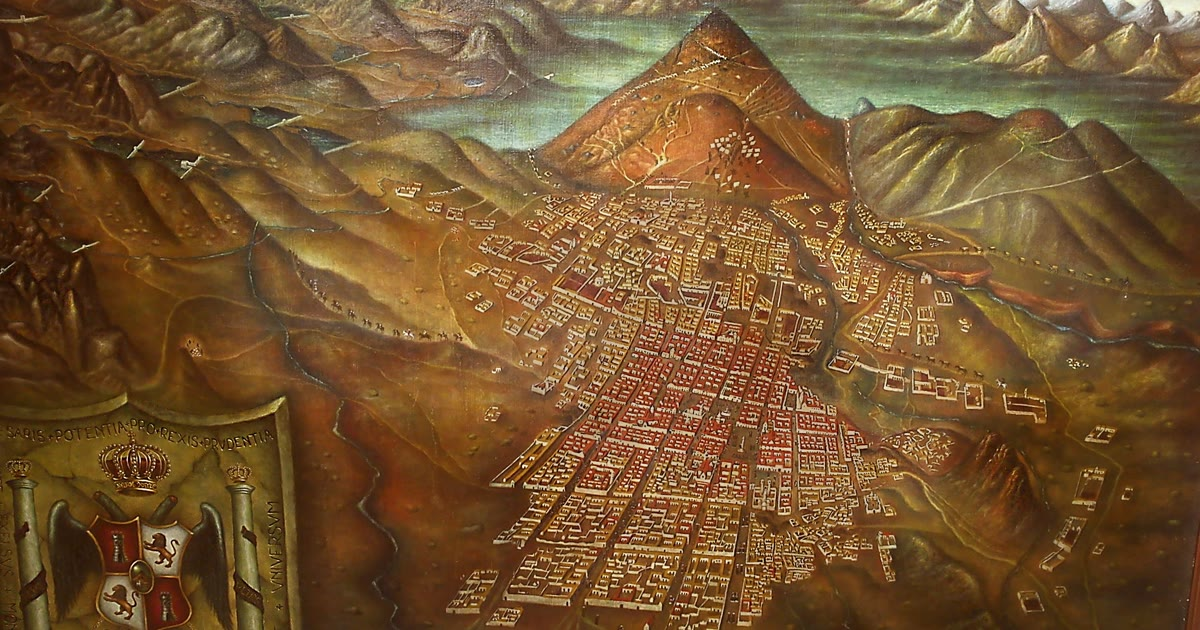
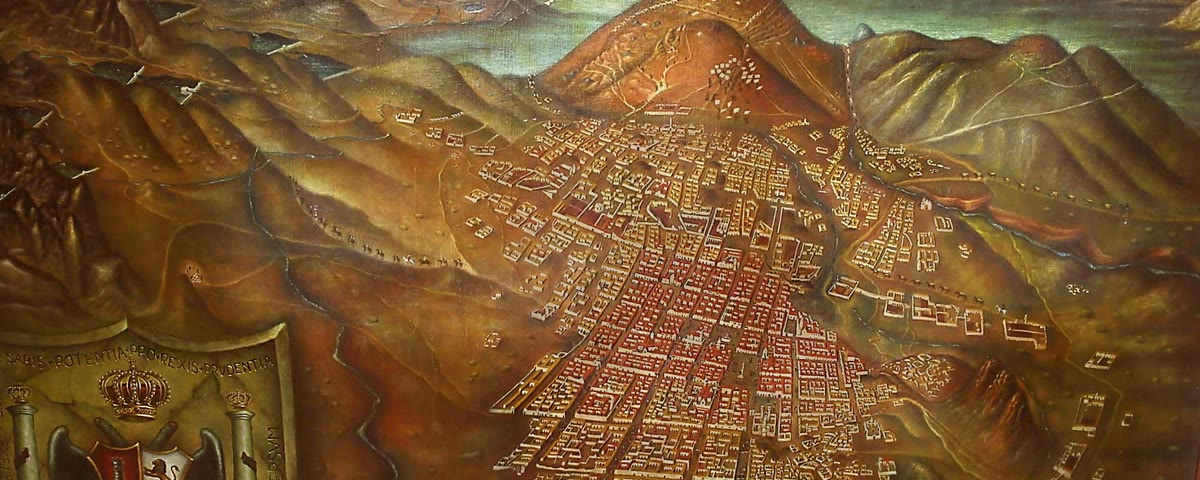
Separate on-page article heroes from OG/X share images (#139)
Allow ARTICLE_HEROES src and ogSrc to differ: heroes stay flexible
landscape (~5:2), OG stays 1200×630. Add og:from-hero letterbox helper,
stop forcing blog covers to overwrite hero with OG, and ship Potosi as
a native 5:2 hero vs 1200×630 OG proof split.

diff --git a/src/lib/content/article-media.test.ts b/src/lib/content/article-media.test.ts
@@ -1,6 +1,6 @@
 import { describe, it } from "node:test";
 import assert from "node:assert/strict";
-import { existsSync, statSync } from "node:fs";
+import { existsSync, readFileSync, statSync } from "node:fs";
 import { join } from "node:path";
 import { execFileSync } from "node:child_process";
 import {
@@ -30,8 +30,26 @@ const IDEA_MARKETS_ARTICLE_PATHS = [
   "/markets/physical-silver-demand-by-country",
 ] as const;
 
-describe("article hero = OG pattern", () => {
-  it("registers Jackson with matching files and share meta", () => {
+function probeDims(file: string): string {
+  return execFileSync(
+    "ffprobe",
+    [
+      "-v",
+      "error",
+      "-select_streams",
+      "v:0",
+      "-show_entries",
+      "stream=width,height",
+      "-of",
+      "csv=p=0",
+      file,
+    ],
+    { encoding: "utf8" },
+  ).trim();
+}
+
+describe("article hero + separate OG", () => {
+  it("registers Jackson with share meta from ogSrc (not hero src)", () => {
     const hero = articleHeroForPath("/history/america/jackson-and-the-bank");
     assert.ok(hero);
     assert.equal(hero.ogSrc, ogImagePathForRoute(hero.path));
@@ -66,52 +84,44 @@ describe("article hero = OG pattern", () => {
     }
   });
 
-  it("ships landscape titlebild + 1200×630 OG (same motif OK; crops may differ)", () => {
-    // On-page hero and OG are separate assets (locked preference). Sibling may
-    // relax on-page dims further; keep both files present and OG at social size.
+  it("ships OG at 1200×630; hero may be flexible landscape (not byte-locked to OG)", () => {
     for (const hero of ARTICLE_HEROES) {
       assert.equal(hero.ogSrc, ogImagePathForRoute(hero.path), hero.path);
       const srcFile = join(root, "public", hero.src.replace(/^\//, ""));
       const ogFile = join(root, "public", hero.ogSrc.replace(/^\//, ""));
+      assert.ok(existsSync(srcFile), srcFile);
+      assert.ok(existsSync(ogFile), ogFile);
+
       for (const file of [srcFile, ogFile]) {
         const size = statSync(file).size;
         assert.ok(size > 20_000 && size <= 600 * 1024, `${file} size ${size}`);
       }
-      const ogProbe = execFileSync(
-        "ffprobe",
-        [
-          "-v",
-          "error",
-          "-select_streams",
-          "v:0",
-          "-show_entries",
-          "stream=width,height",
-          "-of",
-          "csv=p=0",
-          ogFile,
-        ],
-        { encoding: "utf8" },
-      ).trim();
-      assert.equal(ogProbe, "1200,630", `${ogFile} dims ${ogProbe}`);
-      const srcProbe = execFileSync(
-        "ffprobe",
-        [
-          "-v",
-          "error",
-          "-select_streams",
-          "v:0",
-          "-show_entries",
-          "stream=width,height",
-          "-of",
-          "csv=p=0",
-          srcFile,
-        ],
-        { encoding: "utf8" },
-      ).trim();
-      const [sw, sh] = srcProbe.split(",").map(Number);
-      assert.ok(sw >= 800 && sh >= 400, `${srcFile} dims ${srcProbe}`);
-      assert.ok(sw / sh >= 1.4, `${srcFile} should be landscape (${srcProbe})`);
+
+      assert.equal(probeDims(ogFile), "1200,630", `${ogFile} must be 1200×630`);
+
+      const [hw, hh] = probeDims(srcFile).split(",").map(Number);
+      assert.ok(hw >= 800 && hh >= 320, `${srcFile} dims ${hw}×${hh} too small`);
+      // Landscape / Querformat — not portrait; on-page CSS crops to 5:2.
+      assert.ok(hw / hh >= 1.4, `${srcFile} must be landscape (got ${hw}×${hh})`);
     }
+  });
+
+  it("allows hero and OG to differ (Potosi: native 5:2; Nixon: separate OG crop)", () => {
+    const potosi = articleHeroForPath("/history/silver/potosi");
+    assert.ok(potosi);
+    const potosiSrc = join(root, "public", potosi.src.replace(/^\//, ""));
+    const potosiOg = join(root, "public", potosi.ogSrc.replace(/^\//, ""));
+    assert.equal(probeDims(potosiSrc), "1200,480");
+    assert.equal(probeDims(potosiOg), "1200,630");
+    assert.notDeepEqual(readFileSync(potosiSrc), readFileSync(potosiOg));
+
+    const nixon = articleHeroForPath("/history/20th-century/bretton-woods-nixon-1971");
+    assert.ok(nixon);
+    const nixonSrc = join(root, "public", nixon.src.replace(/^\//, ""));
+    const nixonOg = join(root, "public", nixon.ogSrc.replace(/^\//, ""));
+    assert.equal(probeDims(nixonOg), "1200,630");
+    assert.notDeepEqual(readFileSync(nixonSrc), readFileSync(nixonOg));
+    assert.match(nixon.caption ?? "", /colorized/i);
   });
 
   it("lists override paths for og:cards skip", () => {

diff --git a/src/lib/content/article-media.ts b/src/lib/content/article-media.ts
@@ -1,5 +1,5 @@
 /**
- * Article titlebild (on-page hero) paired with a separate Open Graph / X card.
+ * Article titlebild (on-page hero) and Open Graph / X share image — **separate paths**.
  *
  * On-page layout (via `ArticleLead`): **title (+ teaser) first, then landscape
  * media under** — X Articles reading order. The whole lead (title, teaser,
@@ -7,22 +7,23 @@
  * not outrun the image or body. Do not put the image above the title
  * (feed-card style) and never ship a tall full-bleed of the whole illustration.
  *
- * Display vs share: **on-page hero and OG are separate files** (same motif OK,
- * different crops OK). OG/X cards are **1200×630**. On-page, `ArticleHeroImage`
- * shows a **~5:2** band by default (aspect on the clipped wrapper; img
- * `object-cover` fills the frame edge-to-edge) — shorter than native ~1.9:1 OG.
- * No max-height strip crop (#108). No letterbox / pillarbox matte inside the
- * rounded box — subject must fill the crop (do not pad into a smaller center
- * plate). Do not invent a portrait on-page format this pass.
+ * Display vs share (locked split):
+ * - **Hero (`src`)**: flexible landscape — usually ~5:2 or natural Querformat.
+ *   `ArticleHeroImage` frames at **5:2** with `object-cover` fill. Not required
+ *   to be byte-identical to OG, and not forced to 1.91:1.
+ * - **OG (`ogSrc`)**: always **~1200×630** for social/X. Separate crop/export
+ *   from the same motif when needed. Wire `pageShareMeta({ imagePath: hero.ogSrc })`.
+ * - **Default**: when only one asset exists, letterbox (or cover-crop) OG from
+ *   the hero via `npm run og:from-hero` — keep the on-page file as-is. Do not
+ *   AI-regen good photos just to split paths.
  *
  * Convention for later articles:
- * 1. Keep the master illustration elsewhere if needed; write the **landscape**
- *    titlebild JPEG under `public/images/<pillar>/...` (often ~1200×630; 5:2
- *    native also fine).
- * 2. Write a **separate** 1200×630 crop to the Phase-1 card path under
- *    `public/og/cards/` (same key as `ogImagePathForRoute(path)` — see
- *    `phase1-sitemap-paths.mjs`). Same motif; crop may differ from on-page.
- * 3. Register one entry here with matching `src` + `ogSrc`, alt, caption, credit.
+ * 1. Write the on-page landscape titlebild under `public/images/<pillar>/...`
+ *    (~5:2 or natural landscape is fine).
+ * 2. Write a **separate** 1200×630 share JPEG to `public/og/cards/<key>.jpg`
+ *    (same key as `ogImagePathForRoute(path)`). Same motif, own crop when useful.
+ *    If you only have the hero: `npm run og:from-hero -- --hero <hero> --og <card>`.
+ * 3. Register one entry here with `src` + `ogSrc` (may differ), alt, caption, credit.
  * 4. Render with `ArticleLead` + `ArticleHeroImage` (5:2 inset band at prose width).
  * 5. `npm run og:cards` skips paths listed here so branded text cards do not overwrite.
  *
@@ -33,9 +34,9 @@
 export type ArticleHero = {
   /** Route pathname (no trailing slash), e.g. `/history/america/jackson-and-the-bank`. */
   path: string;
-  /** On-page titlebild (public URL path) — landscape / OG aspect, not a tall full plate. */
+  /** On-page titlebild (public URL path) — flexible landscape (~5:2 / natural), not OG-locked. */
   src: string;
-  /** 1200×630 share JPEG (public URL path). Usually the Phase-1 `/og/cards/*.jpg` file. */
+  /** Separate 1200×630 share JPEG (public URL path). Phase-1 `/og/cards/*.jpg` key. */
   ogSrc: string;
   alt: string;
   /** Short caption under the hero (historical context). */
@@ -44,7 +45,7 @@ export type ArticleHero = {
   credit?: string;
 };
 
-/** Articles that use a photographic/illustration hero as both titlebild and OG. */
+/** Articles with a photographic/illustration titlebild; OG may be the same motif at 1200×630. */
 export const ARTICLE_HEROES: readonly ArticleHero[] = [
   {
     path: "/history/ancient/why-markets-chose-gold-silver",

diff --git a/src/components/Article.tsx b/src/components/Article.tsx
@@ -189,9 +189,9 @@ export function RelatedLinks({
 /**
  * Titlebild media bar — X Article–like 5:2 band under the lead.
  * Width matches the article text column (`max-w-prose`), not the full viewport.
- * Share files stay 1200×630; on-page uses a 5:2 clipped wrapper with the img
- * absolutely covering (`object-cover`, full width/height) so no letterbox matte
- * shows inside the rounded box. Never a tall full plate / full-bleed.
+ * Uses `hero.src` only (on-page). Share cards use `hero.ogSrc` (1200×630) via
+ * `pageShareMeta` — paths may differ; do not assume one file for both.
+ * On-page: 5:2 clipped wrapper + absolute `object-cover` fill (no letterbox matte).
  */
 export function ArticleHeroImage({ hero }: { hero: ArticleHeroMeta }) {
   return (
@@ -206,7 +206,7 @@ export function ArticleHeroImage({ hero }: { hero: ArticleHeroMeta }) {
           src={hero.src}
           alt={hero.alt}
           width={1200}
-          height={630}
+          height={480}
           className="absolute inset-0 h-full w-full object-cover object-center"
           decoding="async"
           fetchPriority="high"
@@ -227,7 +227,7 @@ export function ArticleHeroImage({ hero }: { hero: ArticleHeroMeta }) {
  * Matches X Articles’ reading order on-site (text first, landscape media under).
  * Whole lead (title included) sits at prose width so it lines up with the
  * titlebild and body column — not the wider page shell.
- * On-page display is 5:2 at prose width; OG/share files stay 1200×630.
+ * On-page hero (`src`) is flexible landscape; OG/share (`ogSrc`) is separate 1200×630.
  */
 export function ArticleLead({
   kicker,

diff --git a/src/components/BlogIndexGrid.tsx b/src/components/BlogIndexGrid.tsx
@@ -24,7 +24,7 @@ function BlogCard({ post }: { post: BlogPost }) {
             src={hero.src}
             alt={hero.alt}
             width={1200}
-            height={630}
+            height={480}
             className="absolute inset-0 h-full w-full object-cover object-center transition-transform duration-300 group-hover:scale-[1.02]"
             loading="lazy"
             decoding="async"
